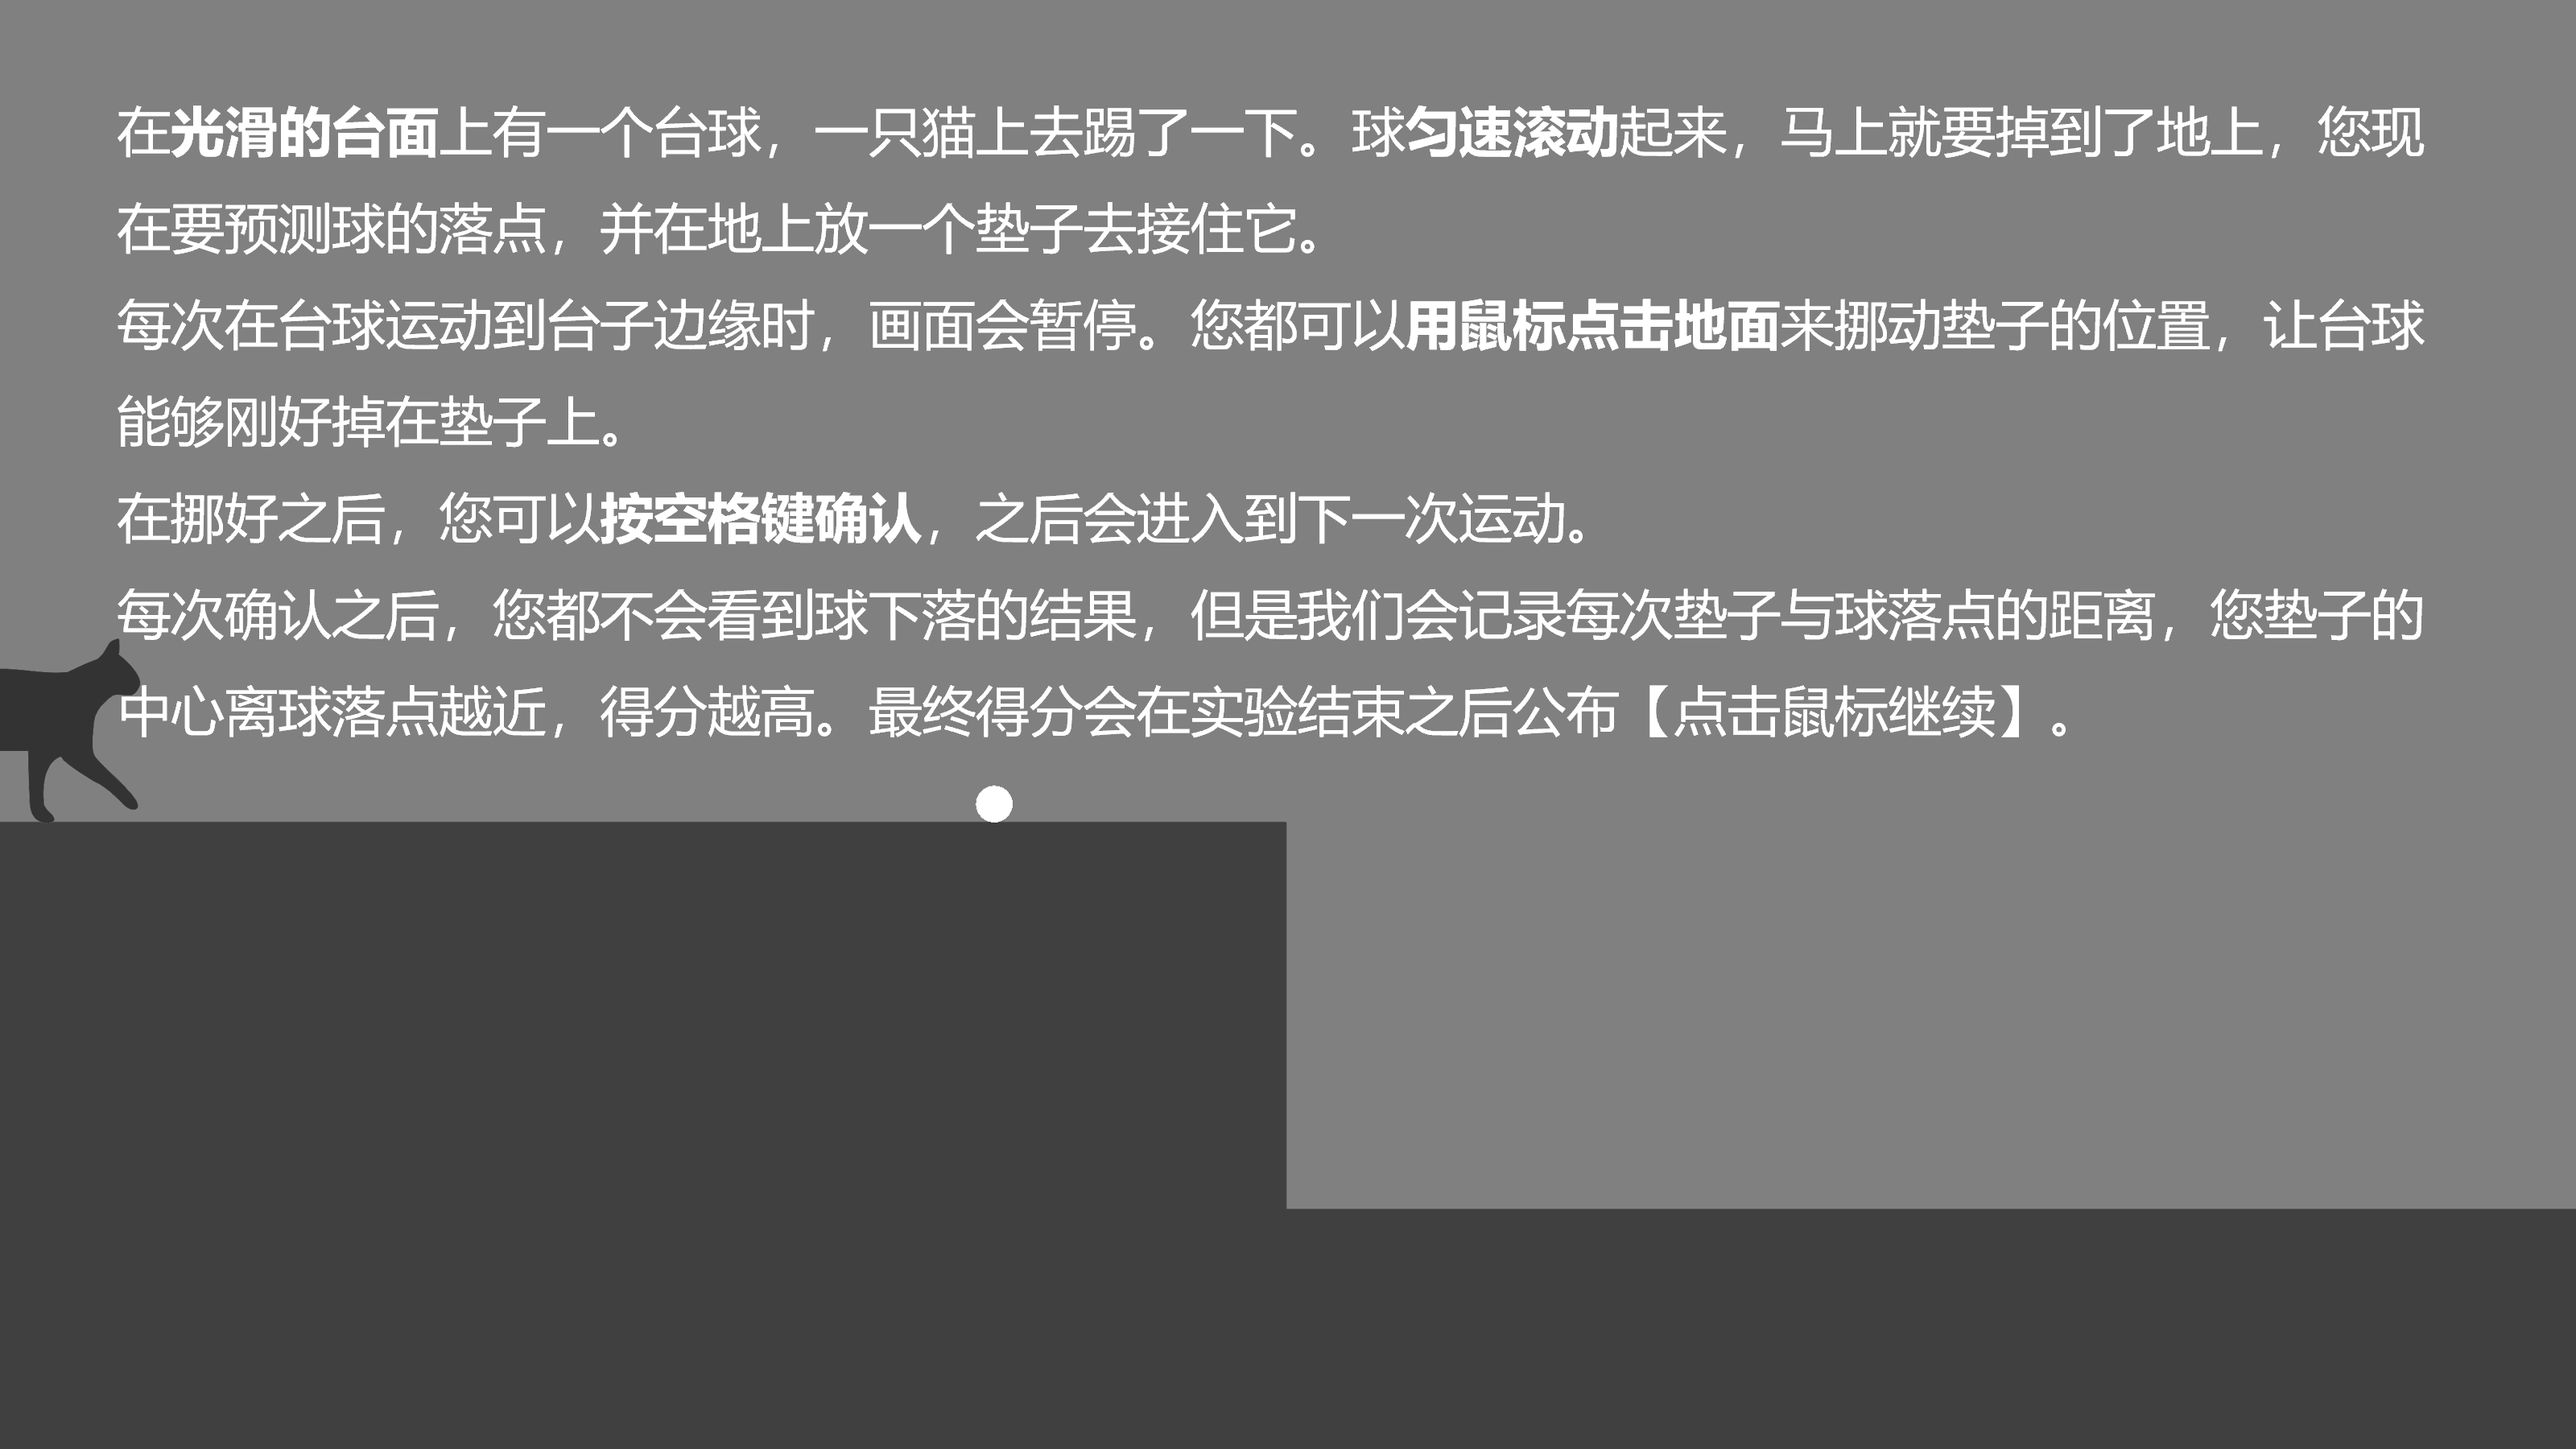
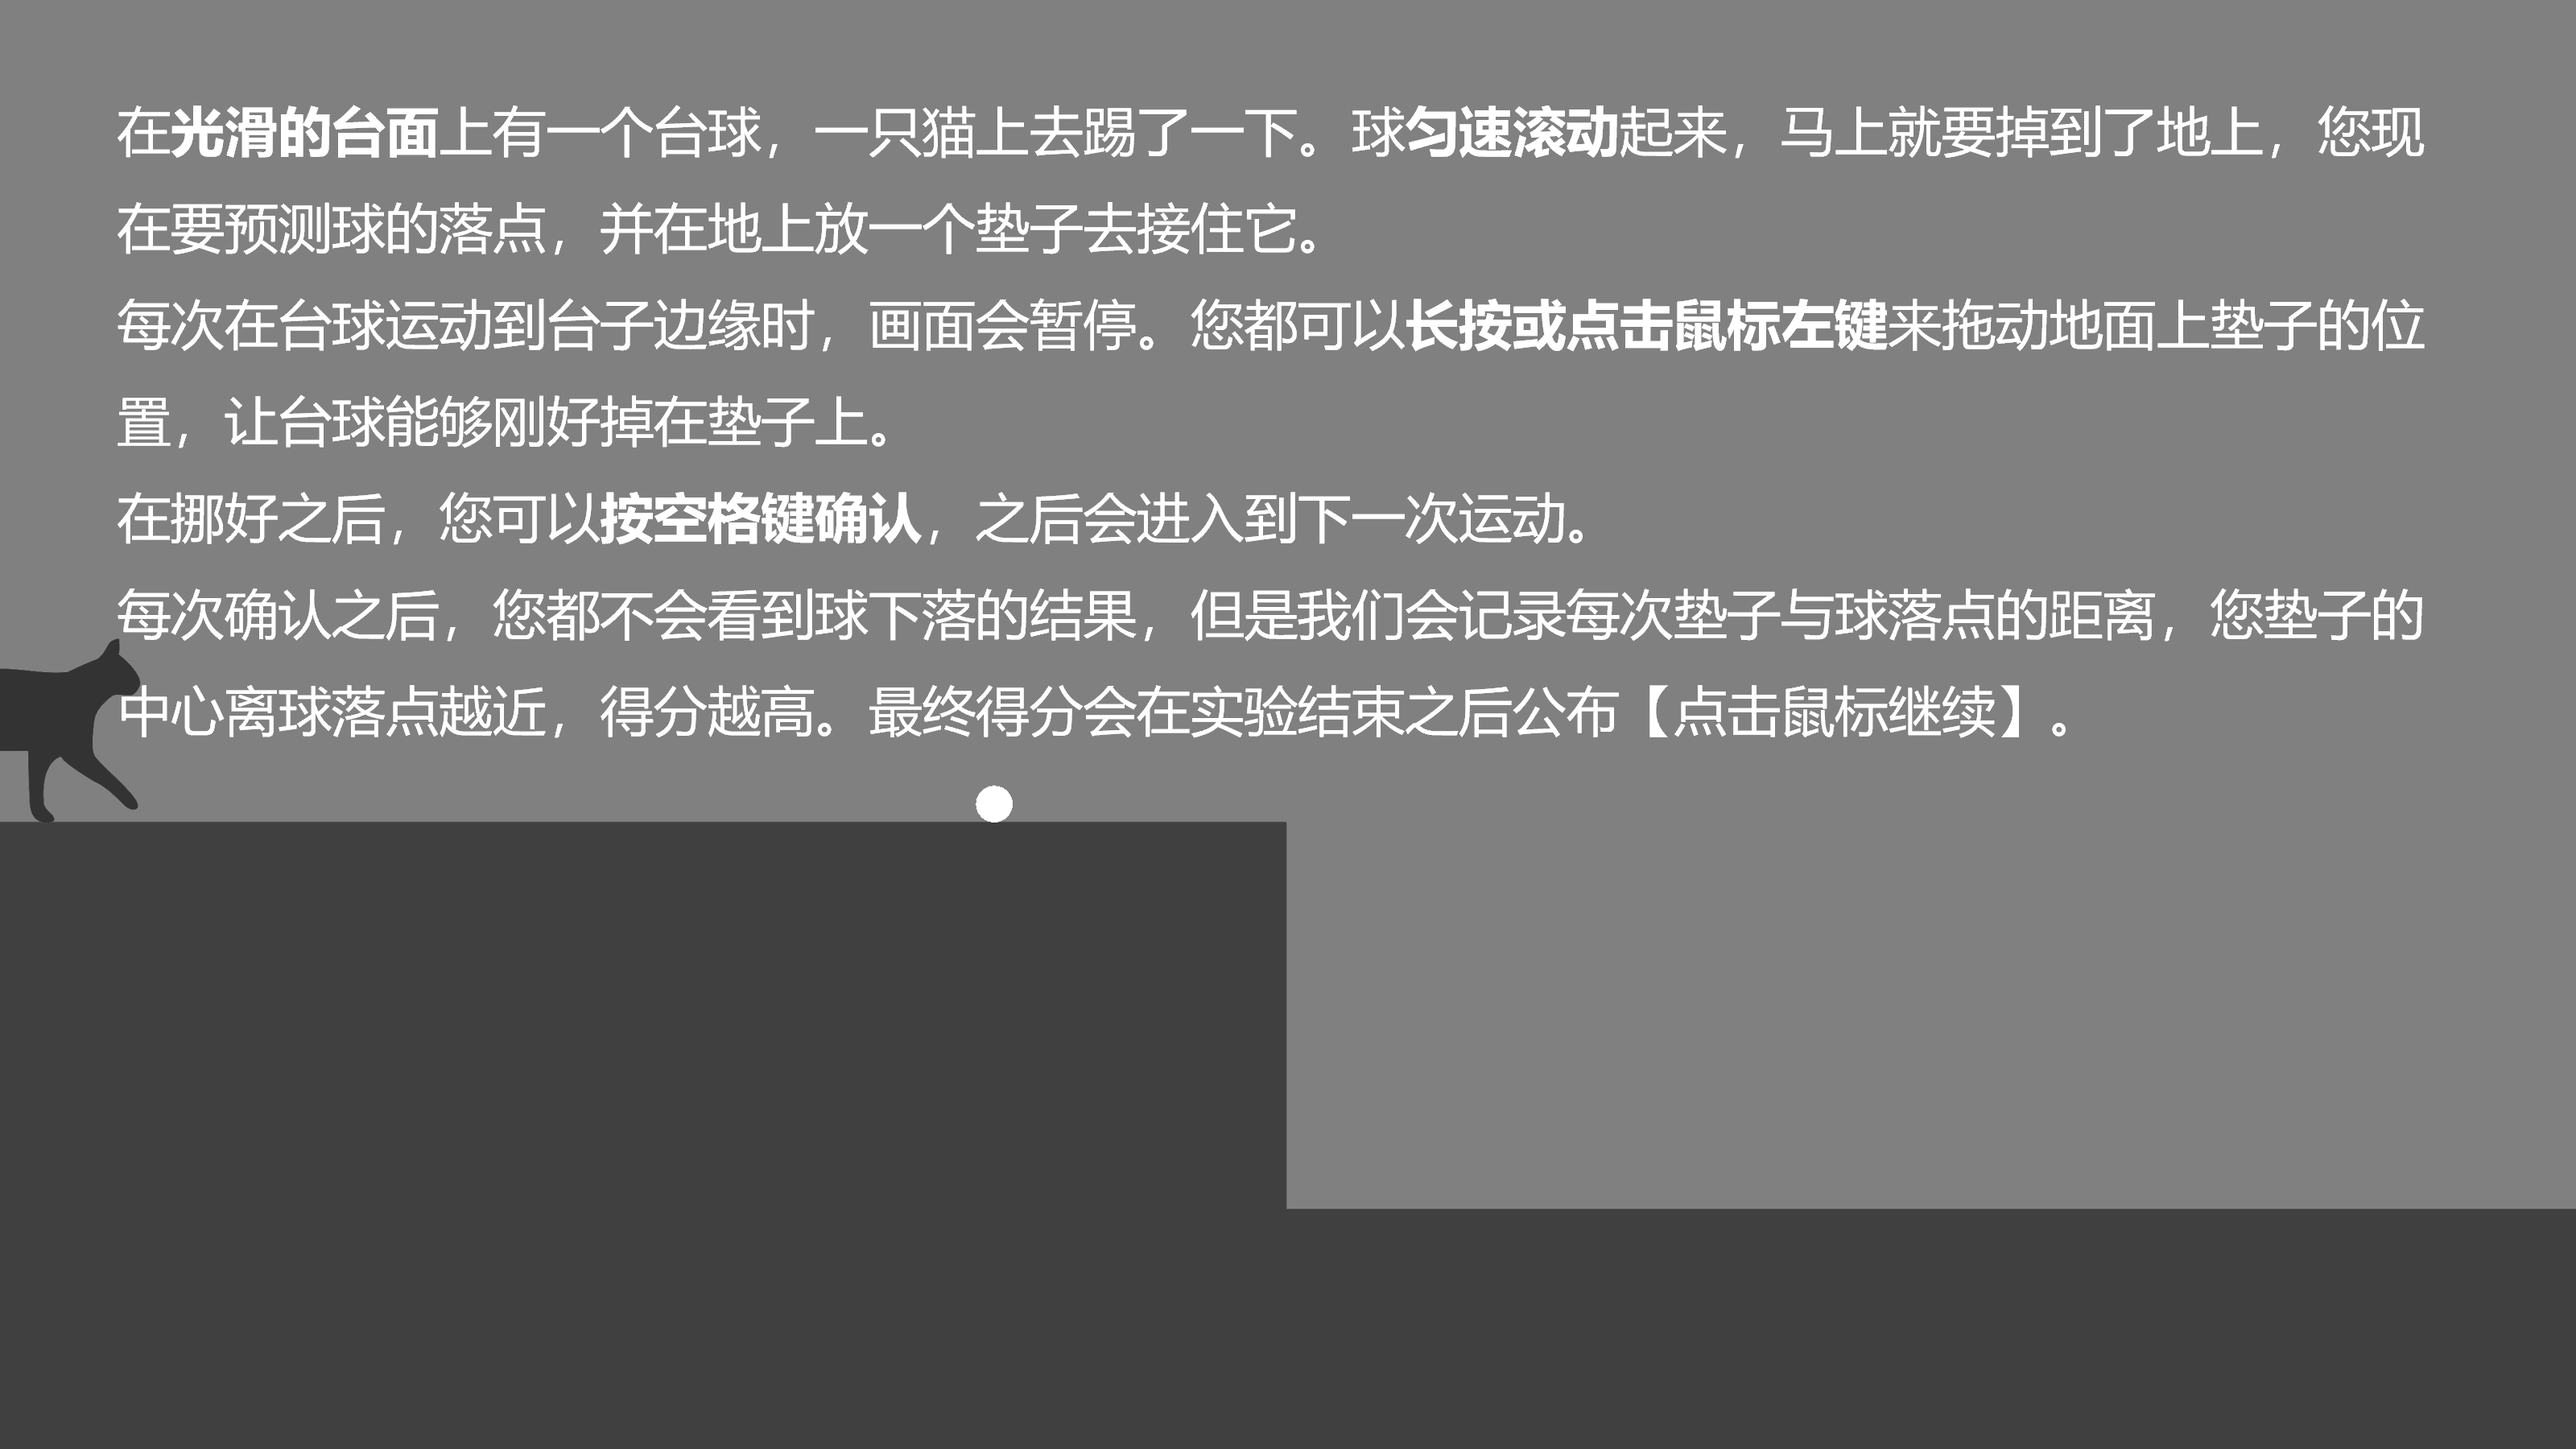
修改指导语，指导被试点击或拖动反应，将鼠标限制在地面一侧，

Changed region(s): [[0.6562, 0.1867, 0.9375, 0.2489], [0.0312, 0.2489, 0.3438, 0.3111], [0.5312, 0.1867, 0.625, 0.2489]]

diff --git a/trial_func.py b/trial_func.py
@@ -68,7 +68,11 @@ def run_trial(i, win, df, clk, ball, net, table, cat0, cat1, scale=800, h0=-600)
     ClickRt = 0
     while True:
         # 初始状态
-        myMouse.setPos((myMouse.getPos()[0], h0+k*abs(myMouse.getPos()[0])))
+        if (myMouse.getPos()[0]>vhigh)or(myMouse.getPos()[0]<vlow):
+            mouse_pos_x = ori*1
+        else:
+            mouse_pos_x = myMouse.getPos()[0]
+        myMouse.setPos((mouse_pos_x, h0+k*abs(mouse_pos_x)))
         if state == 'ready':
             for ki in range(3):
                 table.draw()
